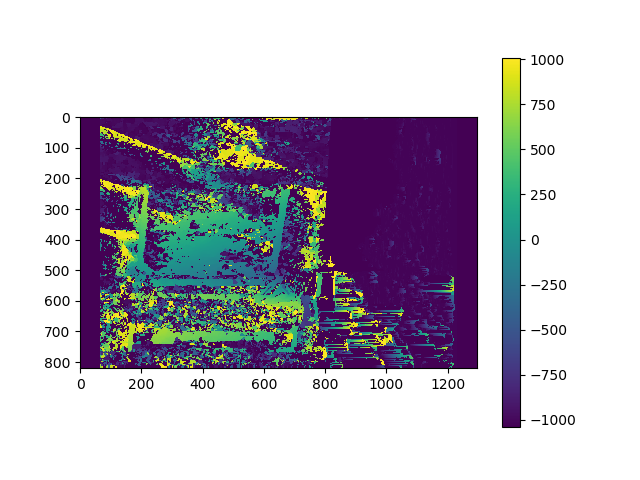
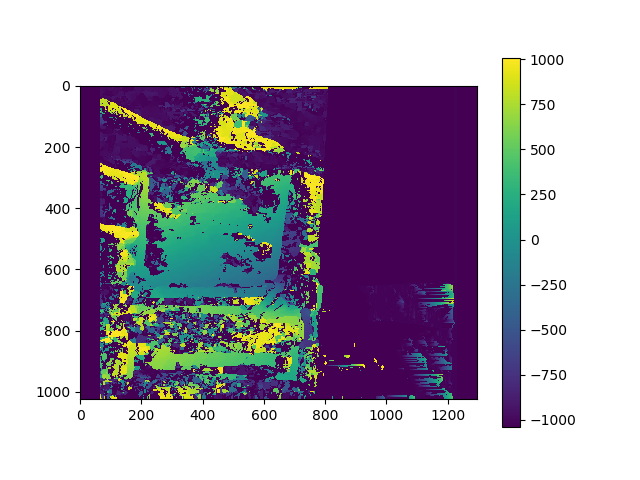
modified scale parameter

diff --git a/main_script.py b/main_script.py
@@ -105,13 +105,13 @@ right_image = read_img(os.path.join(right_capture_undistort_folder, '1.png'))
 
 left_warped = cv2.warpPerspective(src=left_image, M=H_left, dsize=(2592, 2048))
 write_img(fn=os.path.join(calibration_data_folder, 'rectified_left.png'), img=left_warped)
-left_warped_res = cv2.resize(left_warped, None, fx=0.25, fy=0.25, interpolation=cv2.INTER_CUBIC)
+left_warped_res = cv2.resize(left_warped, None, fx=0.5, fy=0.5, interpolation=cv2.INTER_CUBIC)
 right_warped = cv2.warpPerspective(src=right_image, M=H_right, dsize=(2592, 2048))
 write_img(fn=os.path.join(calibration_data_folder, 'rectified_right.png'), img=right_warped)
-right_warped_res = cv2.resize(right_warped, None, fx=0.25, fy=0.25, interpolation=cv2.INTER_CUBIC)
+right_warped_res = cv2.resize(right_warped, None, fx=0.5, fy=0.5, interpolation=cv2.INTER_CUBIC)
 
 # ------ calculate disparity ------
-stereo = cv2.StereoSGBM_create(minDisparity=-64, numDisparities=128, blockSize=15, P1=8, P2=256)
+stereo = cv2.StereoSGBM_create(minDisparity=-64, numDisparities=128, blockSize=21, P1=16, P2=1024)
 disparity = stereo.compute(left=left_warped_res, right=right_warped_res)
 from matplotlib import pyplot as plt
 
